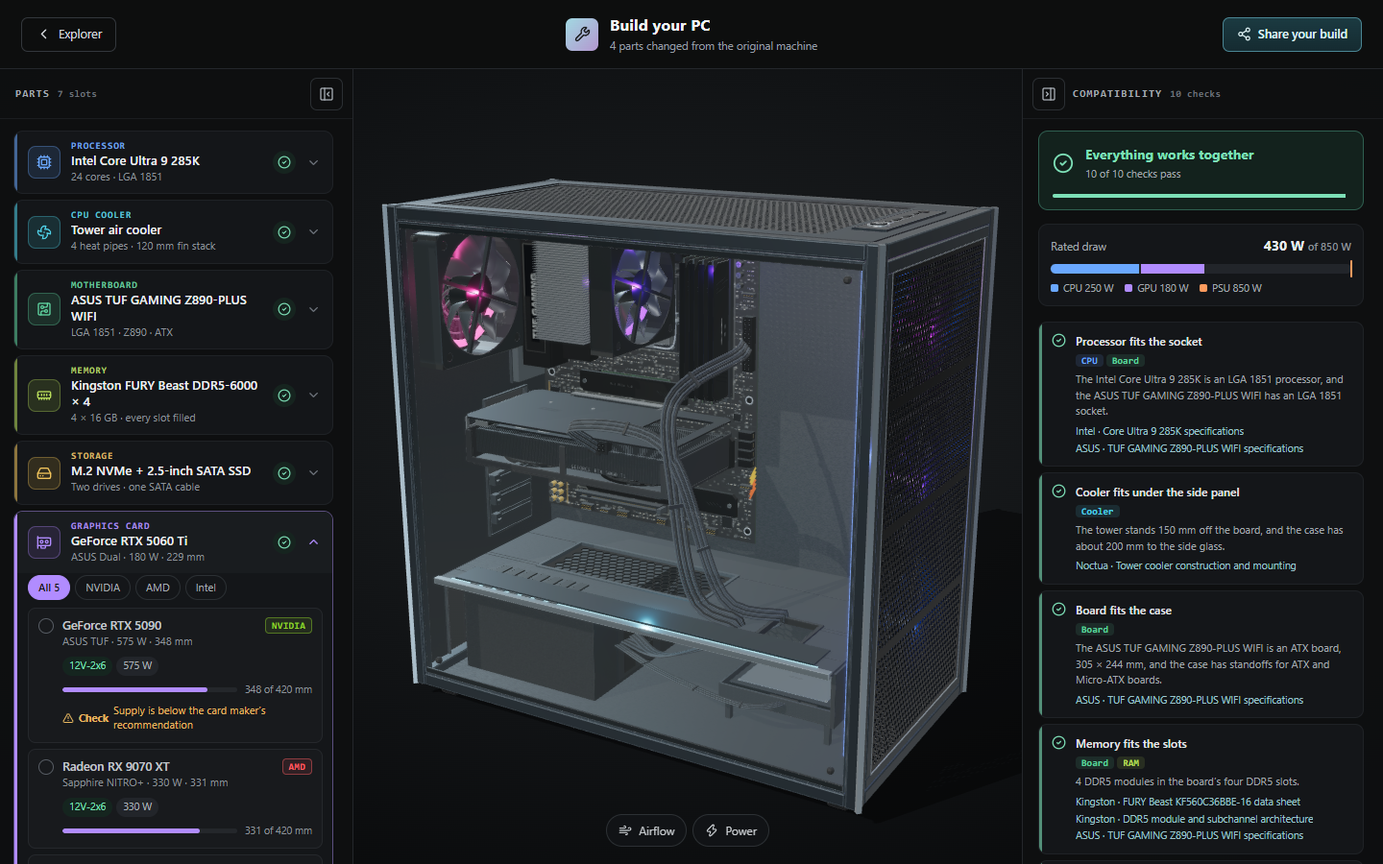
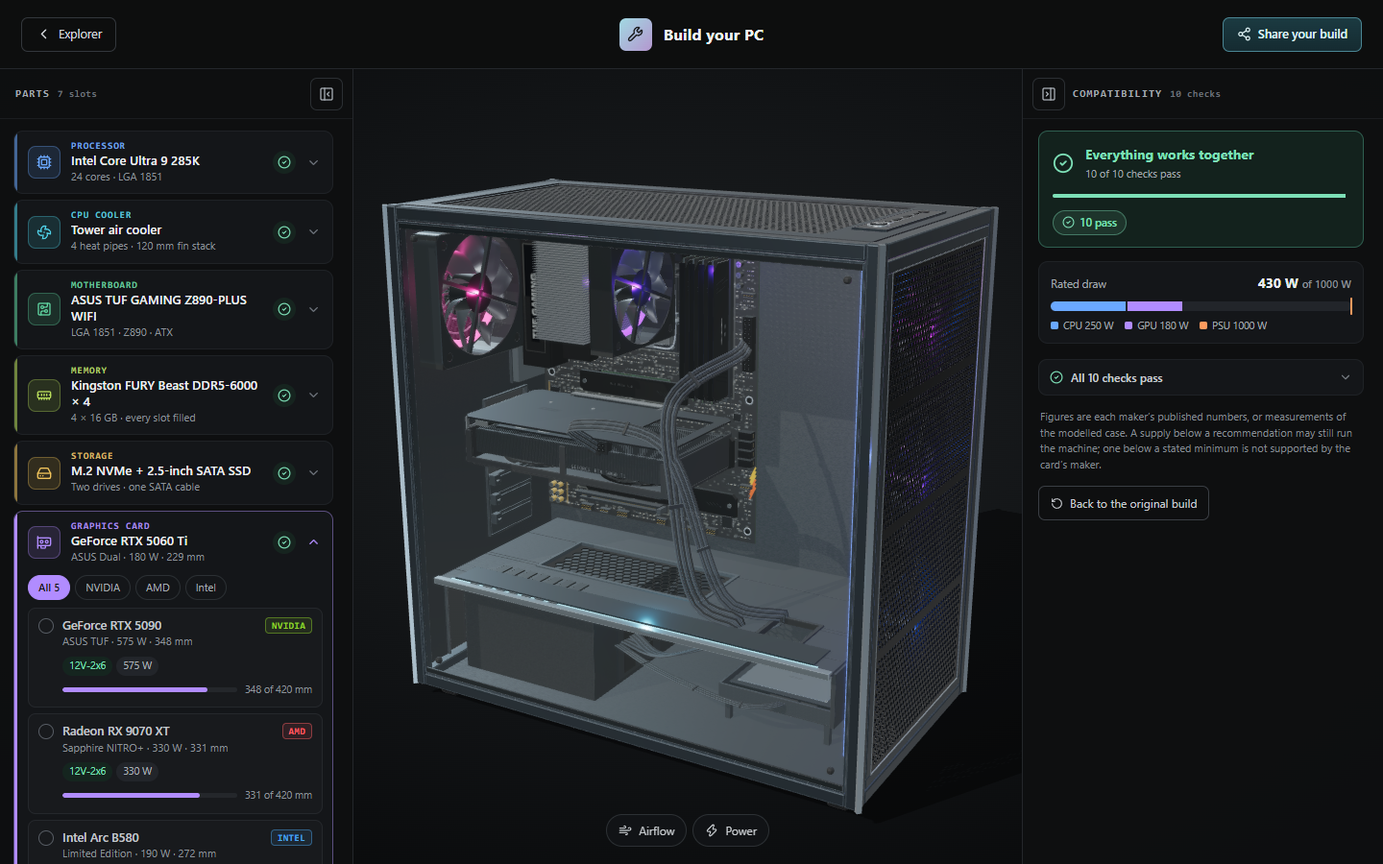
Install the 1000W Gold as the tower's supply (#43)
* Install the 1000W Gold as the tower's supply

ASUS recommends 1000 W for its TUF RTX 5090, and the tower carried the
850W Gold, so every new build opened on a "worth checking" warning. The
1000W Gold is now the supply in the tower: the tower's PSU opens it, the
Power supply menu marks it installed, and the build starts on it with all
ten checks passing. The 850W Gold becomes one of the four alternatives,
its housing standing under the machine like theirs.

A link that names no supply now opens on the 1000W; one that names the
850W (psu=psu) still opens on it.

* Regenerate the reference index

It still named the GIGABYTE board's scale by its old title.

* Retake the README screenshots

Every image the README shows, from the current site: the coloured scale
menus, the Processor menu and the separate entry buttons, the 1000W
supply in the tower, and the build workspace with all checks passing.

* Pin Node 24 to match Vercel's project setting

engines.node was ">=22.13.0". Vercel resolves an open range to the newest
Node it offers, so deployments ran on 26.x and overrode the project's 24.x
setting, which the dashboard flags as a Node.js Version Override. "24.x"
matches the project setting and local development. CI now runs on 24 too,
so it tests what ships.

diff --git a/tests/manifest.test.ts b/tests/manifest.test.ts
@@ -24,8 +24,12 @@ import {
   systemRoot,
 } from '../lib/levels.ts';
 import { sources } from '../lib/sources.ts';
-import { supplyModels, supplyPartId } from '../lib/concepts/psu.ts';
-import { powerOptions } from '../lib/desktop-build.ts';
+import {
+  supplyModels,
+  supplyPartId,
+  type SupplyModel,
+} from '../lib/concepts/psu.ts';
+import { defaultBuild, powerOptions } from '../lib/desktop-build.ts';
 
 await test('all concepts have unique identities, reciprocal parents, sources and no cycles', () => {
   assert.equal(new Set(manifest.map((c) => c.id)).size, manifest.length);
@@ -119,10 +123,22 @@ await test('the power supply menu runs from 650 W to 1200 W, each a supply of it
   ]);
   assert.deepEqual(Object.keys(powerOptions), power.levels);
   assert.equal(power.submenus.length, 0);
-  // Only the installed one is reached from the tower.
-  assert.equal(byId.psu.open, 'psu');
-  for (const level of power.levels)
-    assert.equal(levels[level].alternative ?? false, level !== 'psu', level);
+  // Only the installed one, the 1000W, is reached from the tower, and it is
+  // the one a build starts on.
+  assert.equal(byId.psu.open, 'psu1000');
+  assert.equal(defaultBuild.power, 'psu1000');
+  for (const level of power.levels) {
+    const installed = level === 'psu1000';
+    const model: SupplyModel = supplyModels[level as keyof typeof supplyModels];
+    assert.equal(levels[level].alternative ?? false, !installed, level);
+    assert.equal(model.installed ?? false, installed, level);
+    // Its housing hangs under the tower's PSU; the others stand on their own.
+    assert.equal(
+      byId[supplyPartId(model, 'psucase')].parent,
+      installed ? 'psu' : 'pc',
+      level,
+    );
+  }
   for (const level of power.levels) {
     const model = supplyModels[level as keyof typeof supplyModels];
     const option = powerOptions[level as keyof typeof powerOptions];

diff --git a/tests/build.test.ts b/tests/build.test.ts
@@ -134,12 +134,19 @@ const check = (build: DesktopBuild, id: string) =>
 await test('the explorer starts on the machine it has always shown, and that build passes', () => {
   assert.deepEqual(initialState.build, defaultBuild);
   const checks = checkBuild(defaultBuild);
-  // The 5090's maker asks for more than the 850 W unit, which is a warning,
-  // and nothing else in the original machine is in question.
-  assert.equal(buildStatus(checks), 'warn');
+  // The 1000 W unit meets ASUS's recommendation for the 5090, so a new
+  // visitor's build has nothing to fix or check.
+  assert.equal(buildStatus(checks), 'ok');
   assert.deepEqual(
     checks.filter((c) => c.status !== 'ok').map((c) => c.id),
-    ['supply'],
+    [],
+  );
+  // The 850 W unit it used to carry still runs the 5090, below that figure.
+  assert.equal(
+    checkBuild({ ...defaultBuild, power: 'psu' }).find(
+      (c) => c.id === 'supply',
+    )!.status,
+    'warn',
   );
 });
 
@@ -360,13 +367,15 @@ await test('each drive has its connection, and the SATA drive its lead', () => {
   const m2 = { ...defaultBuild, storage: 'nvme' } as const;
   assert.equal(check(m2, 'storage').status, 'ok');
   assert.match(check(m2, 'storage').detail, /no drive cables/);
-  const original = powerOptions.psu.sata;
+  // A supply with no SATA power leaves the SATA drive unpowered.
+  const supply = powerOptions[defaultBuild.power];
+  const original = supply.sata;
   try {
-    powerOptions.psu.sata = 0;
+    supply.sata = 0;
     assert.equal(check(defaultBuild, 'storage').status, 'fail');
     assert.equal(check(m2, 'storage').status, 'ok');
   } finally {
-    powerOptions.psu.sata = original;
+    supply.sata = original;
   }
 });
 

diff --git a/lib/levels.ts b/lib/levels.ts
@@ -458,15 +458,22 @@ export const levels: Record<LevelId, LevelDef> = {
     caption: 'ASUS TUF GAMING 750W BRONZE',
     summary: 'ASUS · 750 W · 80 PLUS Bronze',
   }),
-  psu: {
-    id: 'psu',
-    comparisonCategory: 'power',
-    millimetersPerUnit: 12,
-    parent: 'pc',
+  psu: otherSupply('psu', 'psucase', {
     name: 'Modular · TUF Gaming 850W Gold',
     title: 'Inside a modular power supply.',
     caption: 'ASUS TUF GAMING 850W GOLD',
     summary: 'ASUS · 850 W · 80 PLUS Gold',
+  }),
+  // The supply in the tower: ASUS's recommended figure for the RTX 5090.
+  psu1000: {
+    id: 'psu1000',
+    comparisonCategory: 'power',
+    millimetersPerUnit: 12,
+    parent: 'pc',
+    name: 'Modular · TUF Gaming 1000W Gold',
+    title: 'A thousand watts, fully modular.',
+    caption: 'ASUS TUF GAMING 1000W GOLD',
+    summary: 'ASUS · 1000 W · 80 PLUS Gold · installed',
     kind: 'physical',
     branchLabel: 'Power supply',
     concept: 'psu',
@@ -474,12 +481,6 @@ export const levels: Record<LevelId, LevelDef> = {
     phases: dissectionPhases,
     detailed: true,
   },
-  psu1000: otherSupply('psu1000', 'tuf1000psucase', {
-    name: 'Modular · TUF Gaming 1000W Gold',
-    title: 'A thousand watts, fully modular.',
-    caption: 'ASUS TUF GAMING 1000W GOLD',
-    summary: 'ASUS · 1000 W · 80 PLUS Gold',
-  }),
   psu1200: otherSupply('psu1200', 'tuf1200psucase', {
     name: 'Modular · TUF Gaming 1200W Gold',
     title: 'Twelve hundred watts, two 16-pin leads.',

diff --git a/lib/concepts/psu.ts b/lib/concepts/psu.ts
@@ -20,7 +20,9 @@ export const psuConcepts: Concept[] = [
     name: 'TUF Gaming 850W Gold housing',
     shortName: '850W housing',
     category: 'Chassis',
-    parent: 'psu',
+    // An alternative to the 1000W the tower carries, so like the other
+    // alternatives it stands under the machine, not the tower's PSU.
+    parent: 'pc',
     level: 'psu',
     open: 'psu',
     description:
@@ -355,6 +357,11 @@ export interface SupplyModel {
   atx?: string;
   /** More for the housing: a claim the maker's pages do not make. */
   housing?: { sources: SourceId[]; note: string };
+  /**
+   * The supply the tower carries, and the one a build starts on: its housing
+   * hangs under the tower's PSU. The others stand under the machine.
+   */
+  installed?: true;
 }
 
 export const supplyModels = {
@@ -403,6 +410,7 @@ export const supplyModels = {
     outputs:
       '24-pin · 2 × CPU 4+4-pin · PCIe 16-pin · 4 × PCIe 8-pin · 5 × SATA',
     atx: 'ATX 3.1',
+    installed: true,
   },
   psu1200: {
     level: 'psu1200',
@@ -433,7 +441,7 @@ export function supplyConcepts(model: SupplyModel): Concept[] {
   // What a model says differently about each kind of part: its housing, its
   // cable face (a socket panel, or a fixed harness in its place) and its fan.
   const housing = (original: Concept): Partial<Concept> => ({
-    parent: 'pc',
+    parent: model.installed ? 'psu' : 'pc',
     open: model.level,
     name: `${name} housing`,
     shortName: `${model.watts}W housing`,

diff --git a/lib/desktop-build.ts b/lib/desktop-build.ts
@@ -53,7 +53,11 @@ export interface DesktopBuild {
 }
 export type BuildSlot = keyof DesktopBuild;
 
-/** The machine as the explorer has always shown it. */
+/**
+ * The machine as the explorer shows it. Its supply is the 1000W Gold, the
+ * figure ASUS recommends for the RTX 5090, so the build starts with every
+ * check passing.
+ */
 export const defaultBuild: DesktopBuild = {
   processor: 'ryzen',
   cooler: 'cooler',
@@ -61,7 +65,7 @@ export const defaultBuild: DesktopBuild = {
   memory: 'dimm',
   storage: 'nvmesata',
   graphics: 'card',
-  power: 'psu',
+  power: 'psu1000',
 };
 
 /**

diff --git a/lib/concepts/pc.ts b/lib/concepts/pc.ts
@@ -312,7 +312,7 @@ export const pcConcepts: Concept[] = [
     category: 'Power',
     parent: 'pc',
     level: 'pc',
-    open: 'psu',
+    open: 'psu1000',
     description:
       'Converts mains alternating current into the steady low-voltage direct current the machine runs on.',
     purpose:

diff --git a/docs/component-references.md b/docs/component-references.md
@@ -296,30 +296,30 @@ Manufacturer documents support component roles, architecture or construction. Th
 | tomahawksuperio | Sensor and fan controller | MSI X870 Tomahawk · AM5 | [MSI · MAG X870 TOMAHAWK WIFI datasheet](https://storage-asset.msi.com/datasheet/mb/global/MAG-X870-TOMAHAWK-WIFI.pdf) · [Texas Instruments · Temperature sensing](https://www.ti.com/product/TMP451) |
 | tomahawkmobofanheader | Fan headers | MSI X870 Tomahawk · AM5 | [MSI · MAG X870 TOMAHAWK WIFI datasheet](https://storage-asset.msi.com/datasheet/mb/global/MAG-X870-TOMAHAWK-WIFI.pdf) · [Texas Instruments · Brushless DC motor commutation with Hall sensors](https://www.ti.com/document-viewer/lit/html/SLVAEG3) |
 | tomahawkfrontheader | Front-panel headers | MSI X870 Tomahawk · AM5 | [MSI · MAG X870 TOMAHAWK WIFI datasheet](https://storage-asset.msi.com/datasheet/mb/global/MAG-X870-TOMAHAWK-WIFI.pdf) |
-| aorusboard | GIGABYTE Z890 AORUS ELITE WIFI7 | GIGABYTE Z890 AORUS Elite · LGA 1851 | [GIGABYTE · Z890 AORUS ELITE WIFI7 user's manual](https://download.gigabyte.com/FileList/Manual/mb_manual_z890-a-elite-wf7-series_1005_e.pdf) · [Intel · Core Ultra 9 285K specifications](https://www.intel.com/content/www/us/en/products/sku/241060/intel-core-ultra-9-processor-285k-36m-cache-up-to-5-70-ghz/specifications.html) |
-| aorusmoboboard | Mainboard substrate | GIGABYTE Z890 AORUS Elite · LGA 1851 | [GIGABYTE · Z890 AORUS ELITE WIFI7 user's manual](https://download.gigabyte.com/FileList/Manual/mb_manual_z890-a-elite-wf7-series_1005_e.pdf) |
-| aorussocket | Processor socket | GIGABYTE Z890 AORUS Elite · LGA 1851 | [GIGABYTE · Z890 AORUS ELITE WIFI7 user's manual](https://download.gigabyte.com/FileList/Manual/mb_manual_z890-a-elite-wf7-series_1005_e.pdf) · [Intel · Core Ultra 9 285K specifications](https://www.intel.com/content/www/us/en/products/sku/241060/intel-core-ultra-9-processor-285k-36m-cache-up-to-5-70-ghz/specifications.html) |
-| aoruscpu | Central processing unit | GIGABYTE Z890 AORUS Elite · LGA 1851 | [Intel · Core Ultra 9 285K specifications](https://www.intel.com/content/www/us/en/products/sku/241060/intel-core-ultra-9-processor-285k-36m-cache-up-to-5-70-ghz/specifications.html) · [Intel · Core Ultra 200S architecture and interfaces datasheet](https://edc.intel.com/content/www/us/en/design/products/platforms/details/arrow-lake-s/core-ultra-200s-series-processors-datasheet-volume-1-of-2/) |
-| aorusdimmslot | Memory slots | GIGABYTE Z890 AORUS Elite · LGA 1851 | [GIGABYTE · Z890 AORUS ELITE WIFI7 user's manual](https://download.gigabyte.com/FileList/Manual/mb_manual_z890-a-elite-wf7-series_1005_e.pdf) · [Kingston · DDR5 module and subchannel architecture](https://www.kingston.com/en/blog/pc-performance/ddr5-overview) |
-| aorusram | Kingston FURY Beast DDR5 modules | GIGABYTE Z890 AORUS Elite · LGA 1851 | [Kingston · FURY Beast KF560C36BBE-16 data sheet](https://www.kingston.com/datasheets/KF560C36BBE-16.pdf) · [Kingston · FURY Beast DDR5 product page](https://www.kingston.com/en/memory/gaming/kingston-fury-beast-ddr5-memory) · [Kingston · DDR5 module and subchannel architecture](https://www.kingston.com/en/blog/pc-performance/ddr5-overview) · [Micron · 16Gb DDR5 SDRAM data sheet (die rev D)](https://mm.digikey.com/Volume0/opasdata/d220001/medias/docus/7969/16gb-ddr5-sdram-dierevd.pdf) |
-| aoruschipset | Chipset | GIGABYTE Z890 AORUS Elite · LGA 1851 | [GIGABYTE · Z890 AORUS ELITE WIFI7 user's manual](https://download.gigabyte.com/FileList/Manual/mb_manual_z890-a-elite-wf7-series_1005_e.pdf) |
-| aorusuefi | UEFI firmware flash | GIGABYTE Z890 AORUS Elite · LGA 1851 | [Winbond · W25Q serial NOR flash documentation](https://www.winbond.com/hq/product/code-storage-flash/qspi-nor/w25q-jv/?__locale=en&partNo=W25Q128JVBIQG) |
-| aoruscmos | CMOS battery | GIGABYTE Z890 AORUS Elite · LGA 1851 | [GIGABYTE · Z890 AORUS ELITE WIFI7 user's manual](https://download.gigabyte.com/FileList/Manual/mb_manual_z890-a-elite-wf7-series_1005_e.pdf) |
-| aoruspcie16 | PCIe ×16 slots | GIGABYTE Z890 AORUS Elite · LGA 1851 | [GIGABYTE · Z890 AORUS ELITE WIFI7 user's manual](https://download.gigabyte.com/FileList/Manual/mb_manual_z890-a-elite-wf7-series_1005_e.pdf) · [PCI-SIG · PCI Express specifications](https://pcisig.com/specifications) |
-| aorusm2slot | M.2 sockets | GIGABYTE Z890 AORUS Elite · LGA 1851 | [GIGABYTE · Z890 AORUS ELITE WIFI7 user's manual](https://download.gigabyte.com/FileList/Manual/mb_manual_z890-a-elite-wf7-series_1005_e.pdf) · [Samsung · 990 PRO M.2 SSD hardware datasheet](https://download.semiconductor.samsung.com/resources/data-sheet/samsung_nvme_ssd_990_pro_datasheet_rev.2.0.pdf) |
-| aorusnvme | NVMe solid-state drive | GIGABYTE Z890 AORUS Elite · LGA 1851 | [Samsung · 990 PRO M.2 SSD hardware datasheet](https://download.semiconductor.samsung.com/resources/data-sheet/samsung_nvme_ssd_990_pro_datasheet_rev.2.0.pdf) · [Samsung · SSD controller and flash architecture white paper](https://download.semiconductor.samsung.com/resources/white-paper/Samsung_SSD_950_PRO_White_paper.pdf) · [NVM Express · Specifications](https://nvmexpress.org/specifications/) |
-| aorusm2heatsink | M.2 thermal covers | GIGABYTE Z890 AORUS Elite · LGA 1851 | [GIGABYTE · Z890 AORUS ELITE WIFI7 user's manual](https://download.gigabyte.com/FileList/Manual/mb_manual_z890-a-elite-wf7-series_1005_e.pdf) |
-| aoruscpuvrm | Processor voltage regulator | GIGABYTE Z890 AORUS Elite · LGA 1851 | [Texas Instruments · Multiphase regulator circuit architecture](https://www.ti.com/product/TPS53679) · [GIGABYTE · Z890 AORUS ELITE WIFI7 user's manual](https://download.gigabyte.com/FileList/Manual/mb_manual_z890-a-elite-wf7-series_1005_e.pdf) |
-| aorusvrmheatsink | VRM heatsinks | GIGABYTE Z890 AORUS Elite · LGA 1851 | [GIGABYTE · Z890 AORUS ELITE WIFI7 user's manual](https://download.gigabyte.com/FileList/Manual/mb_manual_z890-a-elite-wf7-series_1005_e.pdf) |
-| aorusatx24 | 24-pin board power connector | GIGABYTE Z890 AORUS Elite · LGA 1851 | [Intel · ATX multi-rail power supply design guide](https://www.intel.com/content/www/us/en/content-details/336521/atx-version-3-multi-rail-desktop-platform-power-supply-design-guide.html) |
-| aoruseps8 | Processor power connectors | GIGABYTE Z890 AORUS Elite · LGA 1851 | [Intel · ATX multi-rail power supply design guide](https://www.intel.com/content/www/us/en/content-details/336521/atx-version-3-multi-rail-desktop-platform-power-supply-design-guide.html) |
-| aorussataport | SATA ports | GIGABYTE Z890 AORUS Elite · LGA 1851 | [GIGABYTE · Z890 AORUS ELITE WIFI7 user's manual](https://download.gigabyte.com/FileList/Manual/mb_manual_z890-a-elite-wf7-series_1005_e.pdf) · [TE Connectivity · SATA 7 + 15 contact connector drawings](https://www.te.com/en/product-2129475-1.html) |
-| aorusreario | Rear I/O stack | GIGABYTE Z890 AORUS Elite · LGA 1851 | [GIGABYTE · Z890 AORUS ELITE WIFI7 user's manual](https://download.gigabyte.com/FileList/Manual/mb_manual_z890-a-elite-wf7-series_1005_e.pdf) |
-| aoruslan | Network controller | GIGABYTE Z890 AORUS Elite · LGA 1851 | [GIGABYTE · Z890 AORUS ELITE WIFI7 user's manual](https://download.gigabyte.com/FileList/Manual/mb_manual_z890-a-elite-wf7-series_1005_e.pdf) |
-| aorusaudiocodec | Audio codec | GIGABYTE Z890 AORUS Elite · LGA 1851 | [GIGABYTE · Z890 AORUS ELITE WIFI7 user's manual](https://download.gigabyte.com/FileList/Manual/mb_manual_z890-a-elite-wf7-series_1005_e.pdf) |
-| aorussuperio | Sensor and fan controller | GIGABYTE Z890 AORUS Elite · LGA 1851 | [GIGABYTE · Z890 AORUS ELITE WIFI7 user's manual](https://download.gigabyte.com/FileList/Manual/mb_manual_z890-a-elite-wf7-series_1005_e.pdf) · [Texas Instruments · Temperature sensing](https://www.ti.com/product/TMP451) |
-| aorusmobofanheader | Fan headers | GIGABYTE Z890 AORUS Elite · LGA 1851 | [GIGABYTE · Z890 AORUS ELITE WIFI7 user's manual](https://download.gigabyte.com/FileList/Manual/mb_manual_z890-a-elite-wf7-series_1005_e.pdf) · [Texas Instruments · Brushless DC motor commutation with Hall sensors](https://www.ti.com/document-viewer/lit/html/SLVAEG3) |
-| aorusfrontheader | Front-panel headers | GIGABYTE Z890 AORUS Elite · LGA 1851 | [GIGABYTE · Z890 AORUS ELITE WIFI7 user's manual](https://download.gigabyte.com/FileList/Manual/mb_manual_z890-a-elite-wf7-series_1005_e.pdf) |
+| aorusboard | GIGABYTE Z890 AORUS ELITE WIFI7 | AORUS Z890 Elite · LGA 1851 | [GIGABYTE · Z890 AORUS ELITE WIFI7 user's manual](https://download.gigabyte.com/FileList/Manual/mb_manual_z890-a-elite-wf7-series_1005_e.pdf) · [Intel · Core Ultra 9 285K specifications](https://www.intel.com/content/www/us/en/products/sku/241060/intel-core-ultra-9-processor-285k-36m-cache-up-to-5-70-ghz/specifications.html) |
+| aorusmoboboard | Mainboard substrate | AORUS Z890 Elite · LGA 1851 | [GIGABYTE · Z890 AORUS ELITE WIFI7 user's manual](https://download.gigabyte.com/FileList/Manual/mb_manual_z890-a-elite-wf7-series_1005_e.pdf) |
+| aorussocket | Processor socket | AORUS Z890 Elite · LGA 1851 | [GIGABYTE · Z890 AORUS ELITE WIFI7 user's manual](https://download.gigabyte.com/FileList/Manual/mb_manual_z890-a-elite-wf7-series_1005_e.pdf) · [Intel · Core Ultra 9 285K specifications](https://www.intel.com/content/www/us/en/products/sku/241060/intel-core-ultra-9-processor-285k-36m-cache-up-to-5-70-ghz/specifications.html) |
+| aoruscpu | Central processing unit | AORUS Z890 Elite · LGA 1851 | [Intel · Core Ultra 9 285K specifications](https://www.intel.com/content/www/us/en/products/sku/241060/intel-core-ultra-9-processor-285k-36m-cache-up-to-5-70-ghz/specifications.html) · [Intel · Core Ultra 200S architecture and interfaces datasheet](https://edc.intel.com/content/www/us/en/design/products/platforms/details/arrow-lake-s/core-ultra-200s-series-processors-datasheet-volume-1-of-2/) |
+| aorusdimmslot | Memory slots | AORUS Z890 Elite · LGA 1851 | [GIGABYTE · Z890 AORUS ELITE WIFI7 user's manual](https://download.gigabyte.com/FileList/Manual/mb_manual_z890-a-elite-wf7-series_1005_e.pdf) · [Kingston · DDR5 module and subchannel architecture](https://www.kingston.com/en/blog/pc-performance/ddr5-overview) |
+| aorusram | Kingston FURY Beast DDR5 modules | AORUS Z890 Elite · LGA 1851 | [Kingston · FURY Beast KF560C36BBE-16 data sheet](https://www.kingston.com/datasheets/KF560C36BBE-16.pdf) · [Kingston · FURY Beast DDR5 product page](https://www.kingston.com/en/memory/gaming/kingston-fury-beast-ddr5-memory) · [Kingston · DDR5 module and subchannel architecture](https://www.kingston.com/en/blog/pc-performance/ddr5-overview) · [Micron · 16Gb DDR5 SDRAM data sheet (die rev D)](https://mm.digikey.com/Volume0/opasdata/d220001/medias/docus/7969/16gb-ddr5-sdram-dierevd.pdf) |
+| aoruschipset | Chipset | AORUS Z890 Elite · LGA 1851 | [GIGABYTE · Z890 AORUS ELITE WIFI7 user's manual](https://download.gigabyte.com/FileList/Manual/mb_manual_z890-a-elite-wf7-series_1005_e.pdf) |
+| aorusuefi | UEFI firmware flash | AORUS Z890 Elite · LGA 1851 | [Winbond · W25Q serial NOR flash documentation](https://www.winbond.com/hq/product/code-storage-flash/qspi-nor/w25q-jv/?__locale=en&partNo=W25Q128JVBIQG) |
+| aoruscmos | CMOS battery | AORUS Z890 Elite · LGA 1851 | [GIGABYTE · Z890 AORUS ELITE WIFI7 user's manual](https://download.gigabyte.com/FileList/Manual/mb_manual_z890-a-elite-wf7-series_1005_e.pdf) |
+| aoruspcie16 | PCIe ×16 slots | AORUS Z890 Elite · LGA 1851 | [GIGABYTE · Z890 AORUS ELITE WIFI7 user's manual](https://download.gigabyte.com/FileList/Manual/mb_manual_z890-a-elite-wf7-series_1005_e.pdf) · [PCI-SIG · PCI Express specifications](https://pcisig.com/specifications) |
+| aorusm2slot | M.2 sockets | AORUS Z890 Elite · LGA 1851 | [GIGABYTE · Z890 AORUS ELITE WIFI7 user's manual](https://download.gigabyte.com/FileList/Manual/mb_manual_z890-a-elite-wf7-series_1005_e.pdf) · [Samsung · 990 PRO M.2 SSD hardware datasheet](https://download.semiconductor.samsung.com/resources/data-sheet/samsung_nvme_ssd_990_pro_datasheet_rev.2.0.pdf) |
+| aorusnvme | NVMe solid-state drive | AORUS Z890 Elite · LGA 1851 | [Samsung · 990 PRO M.2 SSD hardware datasheet](https://download.semiconductor.samsung.com/resources/data-sheet/samsung_nvme_ssd_990_pro_datasheet_rev.2.0.pdf) · [Samsung · SSD controller and flash architecture white paper](https://download.semiconductor.samsung.com/resources/white-paper/Samsung_SSD_950_PRO_White_paper.pdf) · [NVM Express · Specifications](https://nvmexpress.org/specifications/) |
+| aorusm2heatsink | M.2 thermal covers | AORUS Z890 Elite · LGA 1851 | [GIGABYTE · Z890 AORUS ELITE WIFI7 user's manual](https://download.gigabyte.com/FileList/Manual/mb_manual_z890-a-elite-wf7-series_1005_e.pdf) |
+| aoruscpuvrm | Processor voltage regulator | AORUS Z890 Elite · LGA 1851 | [Texas Instruments · Multiphase regulator circuit architecture](https://www.ti.com/product/TPS53679) · [GIGABYTE · Z890 AORUS ELITE WIFI7 user's manual](https://download.gigabyte.com/FileList/Manual/mb_manual_z890-a-elite-wf7-series_1005_e.pdf) |
+| aorusvrmheatsink | VRM heatsinks | AORUS Z890 Elite · LGA 1851 | [GIGABYTE · Z890 AORUS ELITE WIFI7 user's manual](https://download.gigabyte.com/FileList/Manual/mb_manual_z890-a-elite-wf7-series_1005_e.pdf) |
+| aorusatx24 | 24-pin board power connector | AORUS Z890 Elite · LGA 1851 | [Intel · ATX multi-rail power supply design guide](https://www.intel.com/content/www/us/en/content-details/336521/atx-version-3-multi-rail-desktop-platform-power-supply-design-guide.html) |
+| aoruseps8 | Processor power connectors | AORUS Z890 Elite · LGA 1851 | [Intel · ATX multi-rail power supply design guide](https://www.intel.com/content/www/us/en/content-details/336521/atx-version-3-multi-rail-desktop-platform-power-supply-design-guide.html) |
+| aorussataport | SATA ports | AORUS Z890 Elite · LGA 1851 | [GIGABYTE · Z890 AORUS ELITE WIFI7 user's manual](https://download.gigabyte.com/FileList/Manual/mb_manual_z890-a-elite-wf7-series_1005_e.pdf) · [TE Connectivity · SATA 7 + 15 contact connector drawings](https://www.te.com/en/product-2129475-1.html) |
+| aorusreario | Rear I/O stack | AORUS Z890 Elite · LGA 1851 | [GIGABYTE · Z890 AORUS ELITE WIFI7 user's manual](https://download.gigabyte.com/FileList/Manual/mb_manual_z890-a-elite-wf7-series_1005_e.pdf) |
+| aoruslan | Network controller | AORUS Z890 Elite · LGA 1851 | [GIGABYTE · Z890 AORUS ELITE WIFI7 user's manual](https://download.gigabyte.com/FileList/Manual/mb_manual_z890-a-elite-wf7-series_1005_e.pdf) |
+| aorusaudiocodec | Audio codec | AORUS Z890 Elite · LGA 1851 | [GIGABYTE · Z890 AORUS ELITE WIFI7 user's manual](https://download.gigabyte.com/FileList/Manual/mb_manual_z890-a-elite-wf7-series_1005_e.pdf) |
+| aorussuperio | Sensor and fan controller | AORUS Z890 Elite · LGA 1851 | [GIGABYTE · Z890 AORUS ELITE WIFI7 user's manual](https://download.gigabyte.com/FileList/Manual/mb_manual_z890-a-elite-wf7-series_1005_e.pdf) · [Texas Instruments · Temperature sensing](https://www.ti.com/product/TMP451) |
+| aorusmobofanheader | Fan headers | AORUS Z890 Elite · LGA 1851 | [GIGABYTE · Z890 AORUS ELITE WIFI7 user's manual](https://download.gigabyte.com/FileList/Manual/mb_manual_z890-a-elite-wf7-series_1005_e.pdf) · [Texas Instruments · Brushless DC motor commutation with Hall sensors](https://www.ti.com/document-viewer/lit/html/SLVAEG3) |
+| aorusfrontheader | Front-panel headers | AORUS Z890 Elite · LGA 1851 | [GIGABYTE · Z890 AORUS ELITE WIFI7 user's manual](https://download.gigabyte.com/FileList/Manual/mb_manual_z890-a-elite-wf7-series_1005_e.pdf) |
 | b850mboard | ASRock B850M Pro RS WiFi | ASRock B850M Pro RS · micro-ATX | [ASRock · B850M Pro RS WiFi user manual](https://download.asrock.com/Manual/B850M%20Pro%20RS%20WiFi.pdf) · [AMD · Ryzen 9 9950X specifications](https://www.amd.com/en/products/processors/desktops/ryzen/9000-series/amd-ryzen-9-9950x.html) |
 | b850mmoboboard | Mainboard substrate | ASRock B850M Pro RS · micro-ATX | [ASRock · B850M Pro RS WiFi user manual](https://download.asrock.com/Manual/B850M%20Pro%20RS%20WiFi.pdf) |
 | b850msocket | Processor socket | ASRock B850M Pro RS · micro-ATX | [ASRock · B850M Pro RS WiFi user manual](https://download.asrock.com/Manual/B850M%20Pro%20RS%20WiFi.pdf) · [AMD · Ryzen 9 9950X specifications](https://www.amd.com/en/products/processors/desktops/ryzen/9000-series/amd-ryzen-9-9950x.html) |

diff --git a/README.md b/README.md
@@ -68,8 +68,11 @@ Desktop PC
 │               └── Bank
 │                   └── Cells
 ├── Power supply
+│   ├── ASUS TUF Gaming 650W Bronze · non-modular
+│   ├── ASUS TUF Gaming 750W Bronze · non-modular
 │   ├── ASUS TUF Gaming 850W Gold · modular
-│   └── ASUS TUF Gaming 750W Bronze · non-modular
+│   ├── ASUS TUF Gaming 1000W Gold · modular
+│   └── ASUS TUF Gaming 1200W Gold · modular
 ├── Cooling
 │   ├── Case fan
 │   ├── CPU cooler
@@ -105,7 +108,7 @@ Descending into a part rebuilds it at its own scale with its own timeline, so th
 
 ## The interface
 
-The rail on the left carries the scale tree and per-system visibility. The GPU menu holds five cards, the RTX 5090, Radeon RX 9070 XT, Arc B580, RTX 5060 Ti and RTX 5060, each with its own dropdown of scales. The Memory menu holds the installed DDR5 module and a DDR4 module from the same line, so the two generations can be taken apart side by side or compared in the comparison workbench. The Power supply menu lists two TUF Gaming units directly: an 850W Gold with modular sockets and a 750W Bronze with fixed cables. The bar along the bottom is the disassembly timeline, with the **Auto** key at its left-hand end, the named phases above the slider, and a reset on the right. Left-click an explorable component to open it; right-click to inspect it and use the detail, hide, isolate and focus controls. On a touch screen, a tap shows the component's card and its **Take apart** button opens it. At 100% every laid-out part carries its name, and tapping a name describes it. Hidden components remain available from the stage tracker until they are restored, the scale changes, or the explorer is reset. The **Airflow** switch beside the camera views draws the path the air takes, cool where it enters and warm where it leaves, and it fades as soon as the disassembly slider moves. It starts on wherever there are fans except on the complete machine, where the case is closed and the switch is there to turn it on. The corner expand control toggles browser fullscreen. The address bar follows you: a link such as `https://pc-anatomy.com/?scale=sm` opens straight on the RTX 5090's streaming multiprocessor, `&part=` describes a part, `&open=` sets the disassembly, and the back button climbs back out.
+The rail on the left carries the scale tree and per-system visibility. The GPU menu holds five cards, the RTX 5090, Radeon RX 9070 XT, Arc B580, RTX 5060 Ti and RTX 5060, each with its own dropdown of scales. The Memory menu holds the installed DDR5 module and a DDR4 module from the same line, so the two generations can be taken apart side by side or compared in the comparison workbench. The Power supply menu lists five TUF Gaming units, from a 650W Bronze with fixed cables to a 1200W Gold with modular sockets; the tower carries the 1000W Gold, the supply ASUS recommends for its RTX 5090. The bar along the bottom is the disassembly timeline, with the **Auto** key at its left-hand end, the named phases above the slider, and a reset on the right. Left-click an explorable component to open it; right-click to inspect it and use the detail, hide, isolate and focus controls. On a touch screen, a tap shows the component's card and its **Take apart** button opens it. At 100% every laid-out part carries its name, and tapping a name describes it. Hidden components remain available from the stage tracker until they are restored, the scale changes, or the explorer is reset. The **Airflow** switch beside the camera views draws the path the air takes, cool where it enters and warm where it leaves, and it fades as soon as the disassembly slider moves. It starts on wherever there are fans except on the complete machine, where the case is closed and the switch is there to turn it on. The corner expand control toggles browser fullscreen. The address bar follows you: a link such as `https://pc-anatomy.com/?scale=sm` opens straight on the RTX 5090's streaming multiprocessor, `&part=` describes a part, `&open=` sets the disassembly, and the back button climbs back out.
 
 | Workbench                                                                                                              | On a phone                                                                                                                                               |
 | ---------------------------------------------------------------------------------------------------------------------- | -------------------------------------------------------------------------------------------------------------------------------------------------------- |
@@ -160,7 +163,9 @@ its chip maker's colour.
 The compatibility panel sums the build up first: what fails, what is worth
 checking and what passes, each count a link to its checks. Problems come
 first, one line each; click one to see what is wrong, the sources behind it,
-and a button to the part that would fix it.
+and a button to the part that would fix it. The build starts on the machine
+the explorer shows, which passes every check: its 1000W Gold is the supply
+ASUS recommends for the RTX 5090.
 
 Every figure the checks use is cited: whether the processor fits the board's
 socket, whether the cooler and the board fit the case, whether the memory fits
@@ -182,7 +187,7 @@ beside another in the comparison workbench.
 
 ## Quick start
 
-PC Anatomy requires Node.js 22.13 or newer.
+PC Anatomy requires Node.js 24.
 
 ```bash
 git clone https://github.com/Yoosseph/pc-anatomy.git
@@ -220,7 +225,7 @@ Read it before the first edit. It is kept current with the code, and a change th
 
 ## Accuracy and sources
 
-The machine follows published ATX dimensions where those dimensions are standardized. Seventeen products are named and modeled as specific subjects: the GeForce RTX 5090, AMD Radeon RX 9070 XT, Intel Arc B580, ASUS Dual GeForce RTX 5060 Ti, MSI GeForce RTX 5060 INSPIRE ITX, AMD Ryzen 9 9950X, Intel Core Ultra 9 285K, ASUS TUF GAMING Z890-PLUS WIFI, ASUS TUF GAMING B650M-PLUS WIFI, MSI MAG X870 TOMAHAWK WIFI, GIGABYTE Z890 AORUS ELITE WIFI7, ASRock B850M Pro RS WiFi, and five ASUS TUF Gaming supplies: the 650W and 750W Bronze and the 850W, 1000W and 1200W Gold. The RTX 5090 is the card installed in the tower; the Radeon (after the Sapphire NITRO+), the Arc (Intel Limited Edition) and the two small cards are complete alternative cards opened from the GPU menu. The X670E board is the one installed; the other five open from the Motherboard menu, built on the same ATX or micro-ATX layout with their own socket, outline, slots and their maker's finish. The 850W Gold is the supply installed in the tower; the other four open from the Power supply menu. The rest is an illustrative desktop build that explains representative construction and relationships rather than reproducing a particular bill of materials.
+The machine follows published ATX dimensions where those dimensions are standardized. Seventeen products are named and modeled as specific subjects: the GeForce RTX 5090, AMD Radeon RX 9070 XT, Intel Arc B580, ASUS Dual GeForce RTX 5060 Ti, MSI GeForce RTX 5060 INSPIRE ITX, AMD Ryzen 9 9950X, Intel Core Ultra 9 285K, ASUS TUF GAMING Z890-PLUS WIFI, ASUS TUF GAMING B650M-PLUS WIFI, MSI MAG X870 TOMAHAWK WIFI, GIGABYTE Z890 AORUS ELITE WIFI7, ASRock B850M Pro RS WiFi, and five ASUS TUF Gaming supplies: the 650W and 750W Bronze and the 850W, 1000W and 1200W Gold. The RTX 5090 is the card installed in the tower; the Radeon (after the Sapphire NITRO+), the Arc (Intel Limited Edition) and the two small cards are complete alternative cards opened from the GPU menu. The X670E board is the one installed; the other five open from the Motherboard menu, built on the same ATX or micro-ATX layout with their own socket, outline, slots and their maker's finish. The 1000W Gold, ASUS's recommended supply for the RTX 5090, is the one installed in the tower; the other four open from the Power supply menu. The rest is an illustrative desktop build that explains representative construction and relationships rather than reproducing a particular bill of materials.
 
 Processor and GPU floorplans are explanatory diagrams of documented logical architecture. They are not semiconductor mask layouts and do not claim exact transistor-level placement. See [SOURCES.md](SOURCES.md) for standards, product documentation, architecture references, and the scope of each source.
 
@@ -237,7 +242,7 @@ npm test
 npm run build
 ```
 
-GitHub Actions runs these checks on every push and pull request using Node.js 22.
+GitHub Actions runs these checks on every push and pull request using Node.js 24, the version Vercel deploys with.
 
 ## AI disclaimer
 

diff --git a/ARCHITECTURE.md b/ARCHITECTURE.md
@@ -141,7 +141,7 @@ if three.js reappears in the entry chunk or it grows past its budget.
 
 ## Run it
 
-Node 22.13 or newer.
+Node 24.
 
 ```bash
 npm install
@@ -307,7 +307,7 @@ subsystems stop touching.
 | `lib/hardware.ts` | `ModelTools`, the interface every builder is handed, and the RTX 5090 card assembly. |
 | `lib/machine.ts` | The tower itself: ATX constants, what goes where inside the case, cable routing, the rear I/O shield, RGB palette. |
 | `lib/chassis.ts` | The case: corner columns and rails, the cut rear panel, tray, floor and roof, the glass side, the mesh front, the dust filters, the front I/O, and `plateWithHoles`, which cuts openings in a sheet. It is handed its openings as measurements from `machine.ts`. |
-| `lib/mainboard.ts`, `power-supply.ts`, `fan-unit.ts`, `cooler.ts`, `liquid.ts`, `ssd.ts`, `nvme.ts`, `processor.ts`, `io-die.ts` | Builders for physical or logical scales. `power-supply.ts` builds all five TUF Gaming supplies from one illustrative conversion chain, each from its `SupplyModel` in `concepts/psu.ts` (rating, efficiency class, and a socket panel or fixed leads); `supplyConcepts` writes each model's catalogue from the 850W Gold's. `mainboard.ts` builds all six boards from one layout, ATX or micro-ATX (`microAtx` says where the smaller board's lower slots, drive socket and headers go): the TUF X670E, the TUF Z890 with Intel's LGA 1851 socket and package, the TUF B650M, and MSI's, GIGABYTE's and ASRock's boards. Each wears its maker's design (`designs`): the armour's finish and trim, the power-delivery fins (TUF's blades, slats or a grooved block), the printed marks, the chipset heatsink's shape (one of `chipsetSinks`), and its own list of full-length and short slots. It fits the processor and modules the build chooses, or leaves the socket's cover on and the slots empty. |
+| `lib/mainboard.ts`, `power-supply.ts`, `fan-unit.ts`, `cooler.ts`, `liquid.ts`, `ssd.ts`, `nvme.ts`, `processor.ts`, `io-die.ts` | Builders for physical or logical scales. `power-supply.ts` builds all five TUF Gaming supplies from one illustrative conversion chain, each from its `SupplyModel` in `concepts/psu.ts` (rating, efficiency class, and a socket panel or fixed leads); `supplyConcepts` writes each model's catalogue from the 850W Gold's. The 1000W Gold is the one the tower carries (`installed` on its model): the tower's PSU opens it and a build starts on it, and the 850W is one of the four alternatives. `mainboard.ts` builds all six boards from one layout, ATX or micro-ATX (`microAtx` says where the smaller board's lower slots, drive socket and headers go): the TUF X670E, the TUF Z890 with Intel's LGA 1851 socket and package, the TUF B650M, and MSI's, GIGABYTE's and ASRock's boards. Each wears its maker's design (`designs`): the armour's finish and trim, the power-delivery fins (TUF's blades, slats or a grooved block), the printed marks, the chipset heatsink's shape (one of `chipsetSinks`), and its own list of full-length and short slots. It fits the processor and modules the build chooses, or leaves the socket's cover on and the slots empty. |
 | `lib/memory-module.ts`, `dram-package.ts`, `ram-architecture.ts` | The memory dive. `memory-module.ts` builds both UDIMMs from one set of JEDEC constants and a per-generation spec (key offset, edge curve, envelope, which parts exist) and exports `keyCenter`, which the motherboard's slots are keyed from. `dram-package.ts` builds the board-on-chip FBGA for either generation. `ram-architecture.ts` draws the two dies and, for each generation, one bank and one mat of cells; the DDR4 bank and cell concepts are the DDR5 ones under `ddr4` ids with the numbers that differ swapped in. |
 | `lib/graphics-card.ts`, `card-kit.ts`, `radeon-card.ts`, `arc-card.ts`, `compact-card.ts` | The five graphics cards. `card-kit.ts` holds the millimetre-scale parts they share. `compact-card.ts` builds the two small NVIDIA cards from one description each: the ASUS Dual RTX 5060 Ti over heat pipes, the MSI RTX 5060 INSPIRE ITX over a copper-cored radial heatsink, and `compactMount` says where each meets the slot. |
 | `lib/gpu-architecture.ts`, `radeon-architecture.ts`, `arc-architecture.ts` | The chip block diagrams. |
@@ -840,7 +840,7 @@ the model has. 368 concepts are physical, 225 are logical diagrams.
 
 `.github/workflows/ci.yml` runs `npm ci`, type checking, linting, tests, a
 production build and the bundle-size check on every push and pull request
-with Node.js 22.
+with Node.js 24, the version Vercel deploys with.
 
 - `tests/manifest.test.ts` (17) — unique ids, reciprocal parents, no cycles,
   source resolution, SKU counts against full-chip capacity, search behaviour,

diff --git a/SOURCES.md b/SOURCES.md
@@ -309,6 +309,11 @@ workbench.
   [product page](https://www.asus.com/motherboards-components/power-supply-units/tuf-gaming/tuf-gaming-1200g/)
   gives fully modular cables and the same fan.
 
+The tower carries the 1000W Gold: 1000 W is the supply ASUS recommends in its
+[TUF RTX 5090 specifications](https://www.asus.com/uk/motherboards-components/graphics-cards/tuf-gaming/tuf-rtx5090-32g-gaming/techspec/),
+so the machine the explorer shows passes every check in the build workspace.
+The 850W Gold it carried before is still on offer, below that figure.
+
 **Limits.** The internal layout is the 850W Gold's illustrative conversion
 chain for all five; ASUS publishes no board layout for any of them. The model
 draws one modular socket panel for every Gold unit, so the 1200W's second

diff --git a/CONTRIBUTING.md b/CONTRIBUTING.md
@@ -26,7 +26,7 @@ point.
 
 ## Setting up
 
-PC Anatomy requires Node.js 22.13 or newer.
+PC Anatomy requires Node.js 24.
 
 ```bash
 git clone https://github.com/Yoosseph/pc-anatomy.git
@@ -65,7 +65,7 @@ npm run size    # after the build: keeps three.js out of the first download
 ```
 
 Format with `npm run format`. GitHub Actions runs the same checks on every push
-and pull request with Node.js 22.
+and pull request with Node.js 24, the version Vercel deploys with.
 
 ## Pull requests
 
